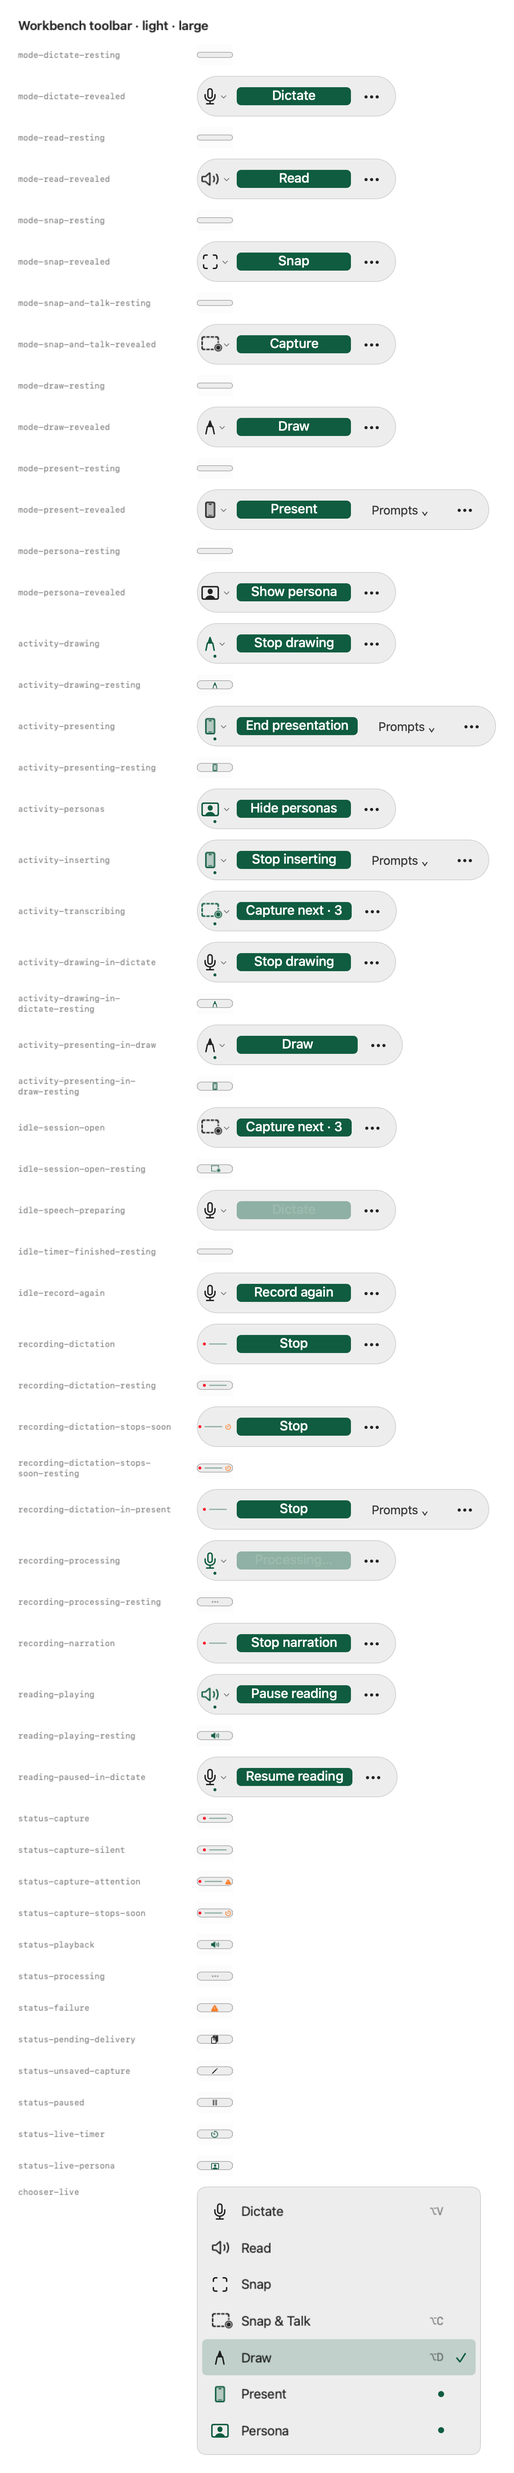
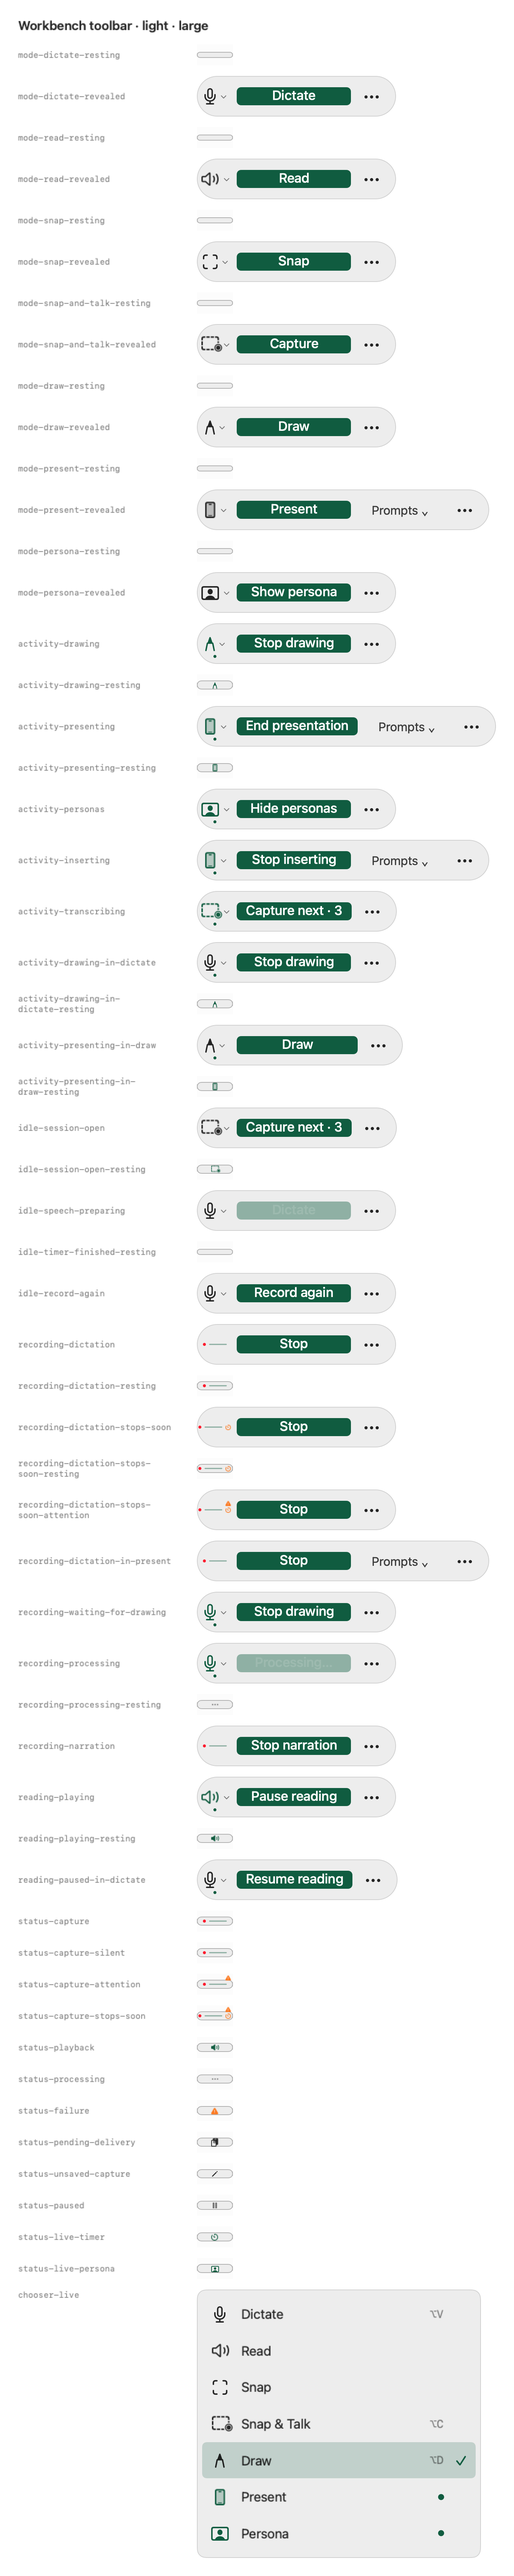
Describe the #211 fixes in the toolbar contract
Keyboard entry and More's result section, the kept-open and Position… order, mirroring at
right-hand docks, both badges, words waiting for drawing, reading's commands in More, the
level in words, the card's fade-in and the gallery's new steps. The overview sheets are
regenerated.

diff --git a/docs/floating-toolbar.md b/docs/floating-toolbar.md
@@ -45,7 +45,11 @@ result; nothing swaps the floating window to a panel of its own. Live work is
 the row: its next action is Stop, Stop narration, Pause or Resume reading, Cancel
 request or Processing…, the launcher carries the capture signal, and More opens
 with what the work can do besides, under its capability's name: Cancel and Copy
-now for a dictation, Cancel for a narration, Stop reading. A recording's elapsed
+now for a dictation, Cancel for a narration, Stop reading. Dictated words that
+wait for drawing to end lead with Stop drawing, which delivers them, with Copy now
+in More (#211). While drawing or a prompt insertion holds the next action, More's
+Read section also has reading's own next action: Cancel while it prepares, Pause
+reading or Resume reading. A recording's elapsed
 time is the Stop's tooltip and VoiceOver help, never its label, whose width would
 tick; in the last ten seconds before the 5-minute limit a timer badge joins the
 capture signal and VoiceOver hears it once. The Dictate page keeps the recording's
@@ -56,11 +60,19 @@ Retry, Record again or Open Workbench and dismiss; the reading that stopped with
 its reason, Retry and dismiss; and the clipboard receipt with Review, its pin and
 the × whose ring counts its own eight seconds (four after a confirmed paste),
 held by the pointer or the pin. At rest a result is only the mark's warning or
-clipboard status. Revealing the toolbar shows the result's view in place of the
-row, grown inward from the same centre; a result that arrives while the row is
-open waits for the next reveal rather than replacing the row under the pointer.
-Revealing, collapsing or choosing a tool never acknowledges, dismisses or retries
-it. This is the chosen reading of the contract, which prefers recovery commands
+clipboard status. The pointer's reveal, a dwell or a click on the mark, shows the
+result's view in place of the row, grown inward from the same centre; a result
+that arrives while the row is open waits for the next reveal rather than replacing
+the row under the pointer. Keyboard entry, Window › Focus floating toolbar,
+reveals the launcher row instead, with the launcher focused, and More opens with
+the result's own section: its title, a failure's reason, and Copy again, Retry,
+Record again, Open Workbench, Review and Dismiss as its view offers them (#211). A
+result's view takes the keyboard on its first command when the keyboard comes to
+it, and Escape leaves from it as from the row. At a right-hand dock a result grows
+leftward from the mark, so each result is mirrored there: its words, and a
+dictation result's drag handle, sit over the mark the pointer came from, and its
+commands and Position at the far end, while VoiceOver reads it in the same order.
+Revealing, collapsing or choosing a tool never acknowledges, dismisses or retries it. This is the chosen reading of the contract, which prefers recovery commands
 in More and warns against squeezing an editor into the row: a failure's reason
 and a receipt's text are content, not only commands, and the receipt's ring
 needs its view.
@@ -68,10 +80,12 @@ needs its view.
 One exception, also chosen: a row held open by Keep open alone shows a new result
 in its place, as the dictation panel did, because Keep open is the person's choice
 of persistent controls and there is no rest to show the status on. It does so only
-while no pointer is on the toolbar and nothing holds it, no menu, chooser or
-Position… included; until then the result waits as a status. It never activates
-Workbench, takes the keyboard or moves the anchor, and it grows from the same
-centre. A delivery that did not finish stays after its receipt has gone
+while no pointer is on the toolbar and nothing holds it, no menu, chooser,
+keyboard or Position… included; until then the result waits as a status. A kept-open
+row that comes back after a capture or Hide toolbar makes the same checks once the
+pointer has been found again, and Position… closing hands the keyboard back before
+anything is swapped (#211). It never activates Workbench, takes the keyboard or
+moves the anchor, and it grows from the same centre. A delivery that did not finish stays after its receipt has gone
 (#134 T5): the mark keeps its warning, and More opens with the result's own title,
 Copy again where it cannot lead to a second insertion, and Dismiss.
 
@@ -80,7 +94,8 @@ seconds, held by hover or VoiceOver, then the mark again (#156).
 
 **The coaching card** (#134 T5) shows above what the toolbar shows with a 12-point
 gap, or below it when the display has no room above, centred on the launcher and
-never expanding the row or moving the mark. It is its own panel, sized to the
+never expanding the row or moving the mark. It fades in over 160 ms, at once with
+Reduce Motion. It is its own panel, sized to the
 card, so the gap passes clicks through. The host allows it
 (`FeedbackCoachModel.canPresent`) only while the toolbar is on screen and the card
 would cover no permission prompt, no Workbench window in front, none of the
@@ -243,7 +258,7 @@ did not finish is a failure until the person copies it again or sets it aside.
 
 | Status | The mark shows |
 | --- | --- |
-| Capture | The shared voice trace (#209): a red recording dot and a short trace of three shallow lobes in the voice colour, from the recording owner's own level through the shared envelope; a thin still line in silence or with no level (a meeting), and a still shape with Reduce Motion. Beside it one badge: a timer in the last ten seconds before the 5-minute limit, or else a warning for another job that needs attention. Revealed, the launcher carries the same signal in place of its symbol |
+| Capture | The shared voice trace (#209): a red recording dot and a short trace of three shallow lobes in the voice colour, from the recording owner's own level through the shared envelope; a thin still line in silence or with no level (a meeting), and a still shape with Reduce Motion. Its badges, each 7 points and both when both apply (#211): a timer beside the trace in the last ten seconds before the 5-minute limit, and a warning on the capsule's corner, like a badge on an icon, for another job that needs attention. Revealed, the launcher carries the same signal in place of its symbol |
 | Playback | A speaker |
 | Processing | An ellipsis |
 | Failure | A warning triangle |
@@ -255,8 +270,11 @@ did not finish is a failure until the person copies it again or sets it aside.
 
 A recording that goes on while another job needs attention keeps the recording
 signal and adds a small warning badge inside the same target, and its
-description names both ("Recording dictation, Needs attention"). Shape and words
-carry each state; colour never does alone. VoiceOver announces each meaningful
+description names both ("Recording dictation, Needs attention"), the time limit
+too when it comes. Shape and words carry each state; colour never does alone.
+VoiceOver's value for the mark and the launcher adds the level in words, Quiet,
+Receiving sound or Low microphone level once the dictation owner judges the
+microphone too quiet, and never announces it. VoiceOver announces each meaningful
 change once: a new indicator, a badge, or new words for the state, so a failure
 or waiting result that arrives under processing or playback is heard though the
 indicator keeps its priority. Never a level, and never any transcript or result
@@ -536,7 +554,14 @@ no-speech cue must show at the toolbar's place and give way to the mark; a Stop
 pressed through the recording's completion must start nothing; and the coaching
 card must sit 12 points above the mark, or below it at a top dock, centred on the
 launcher, with nothing of the toolbar's in the gap and the mark unmoved. Each
-fails the run. The floating shots render the no-speech cue, the reading that
+fails the run. Then, with the toolbar's keyboard hold standing in for the
+keyboard, which the gallery never takes: keyboard entry onto a waiting receipt
+must keep the launcher row, whose launcher takes the focus, and Escape must leave
+without dismissing the receipt, from the receipt's own controls too; Position…
+closing onto a receipt waiting on a kept-open row must leave the launcher row with
+the keyboard back; and at the right-hand dock no action of a dictation failure,
+the receipt or a stopped reading may sit over the mark the pointer came from, by the
+frames each view reports for its actions (#211). The floating shots render the no-speech cue, the reading that
 stopped, the receipt with its ring and the coaching card.
 `ToolbarPlacementTests` covers the 4-point threshold, the 16-point snap zone,
 inward growth, a width change that must not move the launcher or turn the row
